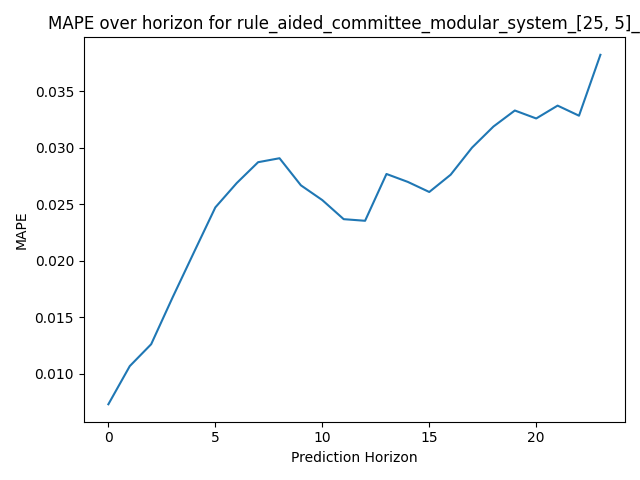
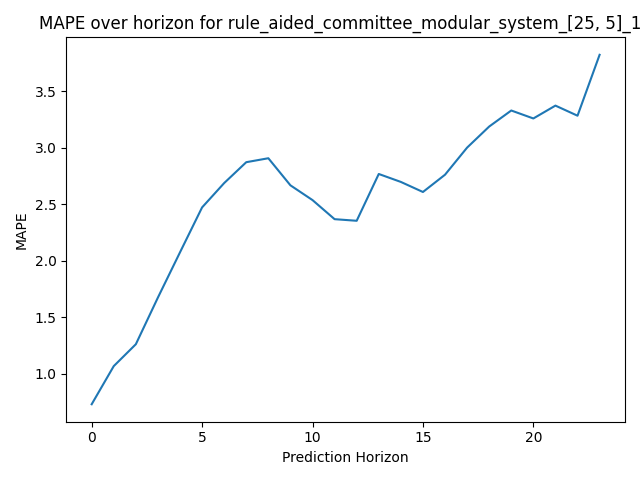
corrected rule-aided and committee mape plots

diff --git a/eval/committee/committee_modular_system.py b/eval/committee/committee_modular_system.py
@@ -56,7 +56,7 @@ if __name__ == "__main__":
     horizon_indices = {i: range(i, len(raw_test['load'].iloc[non_zero_mask]), 24) for i in range(24)}
     
     horizon_mapes = [
-        mean_absolute_percentage_error(raw_test['load'].iloc[non_zero_mask].iloc[horizon_indices[i]], pred[BEST_START][non_zero_mask][horizon_indices[i]])
+        100 * mean_absolute_percentage_error(raw_test['load'].iloc[non_zero_mask].iloc[horizon_indices[i]], pred[BEST_START][non_zero_mask][horizon_indices[i]])
         for i in range(24)
     ]
     

diff --git a/eval/rule_aided/rule_aided_committee_modular_system.py b/eval/rule_aided/rule_aided_committee_modular_system.py
@@ -59,7 +59,7 @@ if __name__ == "__main__":
     horizon_indices = {i: range(i, len(raw_test['load'].iloc[non_zero_mask]), 24) for i in range(24)}
     
     horizon_mapes = [
-        mean_absolute_percentage_error(raw_test['load'].iloc[non_zero_mask].iloc[horizon_indices[i]], pred[BEST_START][non_zero_mask][horizon_indices[i]])
+        100 * mean_absolute_percentage_error(raw_test['load'].iloc[non_zero_mask].iloc[horizon_indices[i]], pred[BEST_START][non_zero_mask][horizon_indices[i]])
         for i in range(24)
     ]
     
